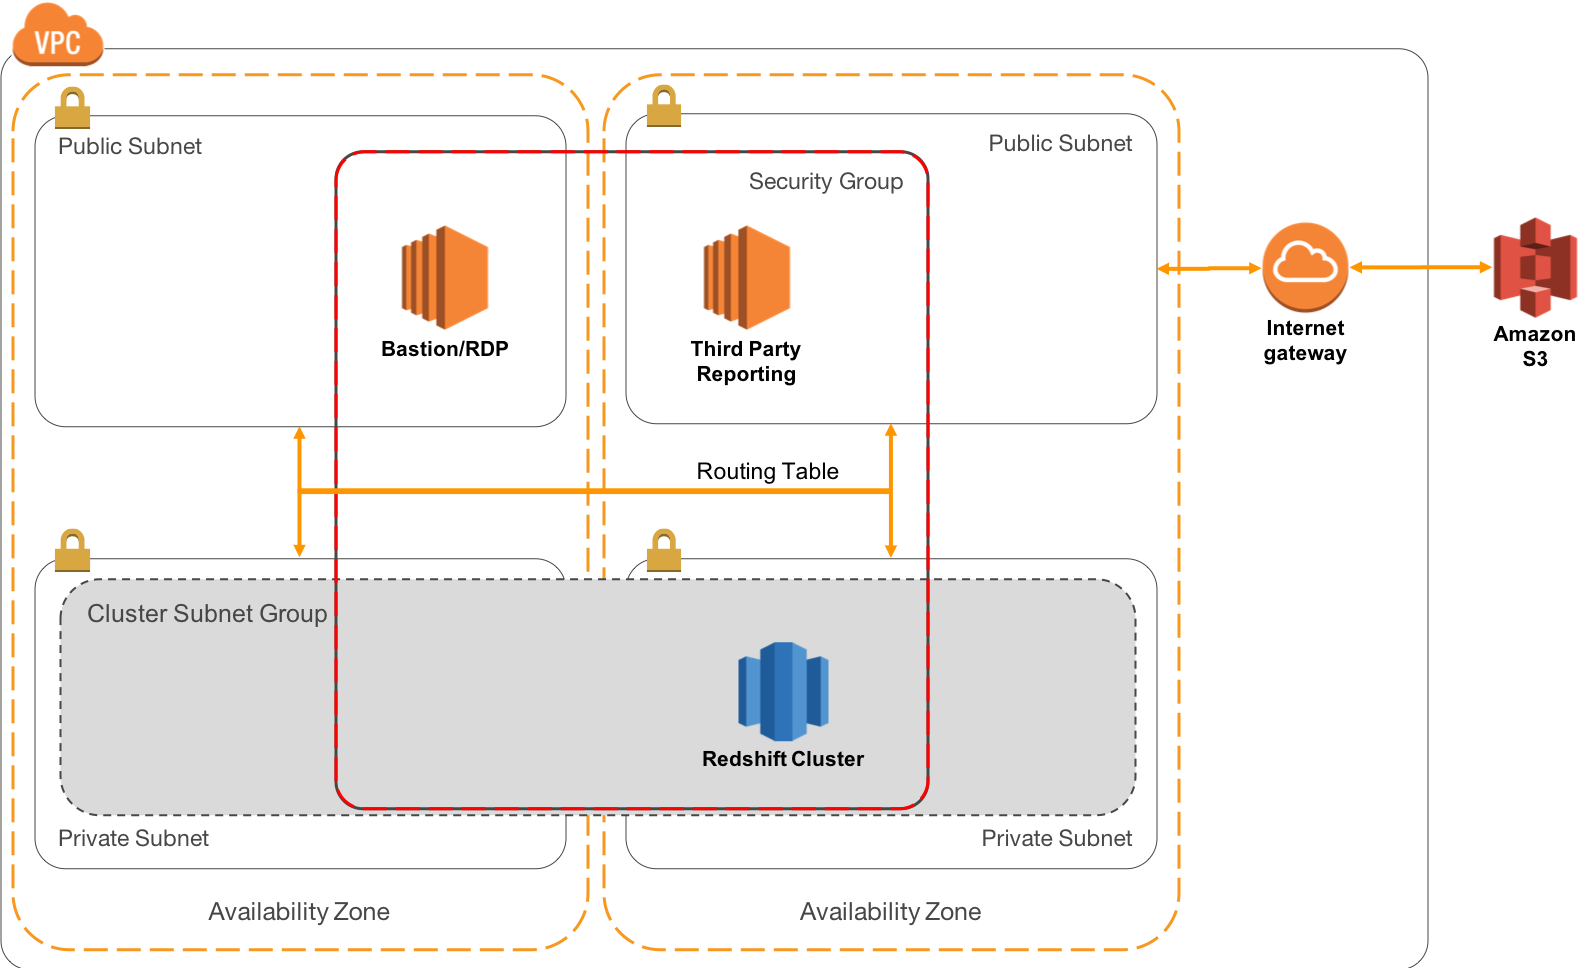
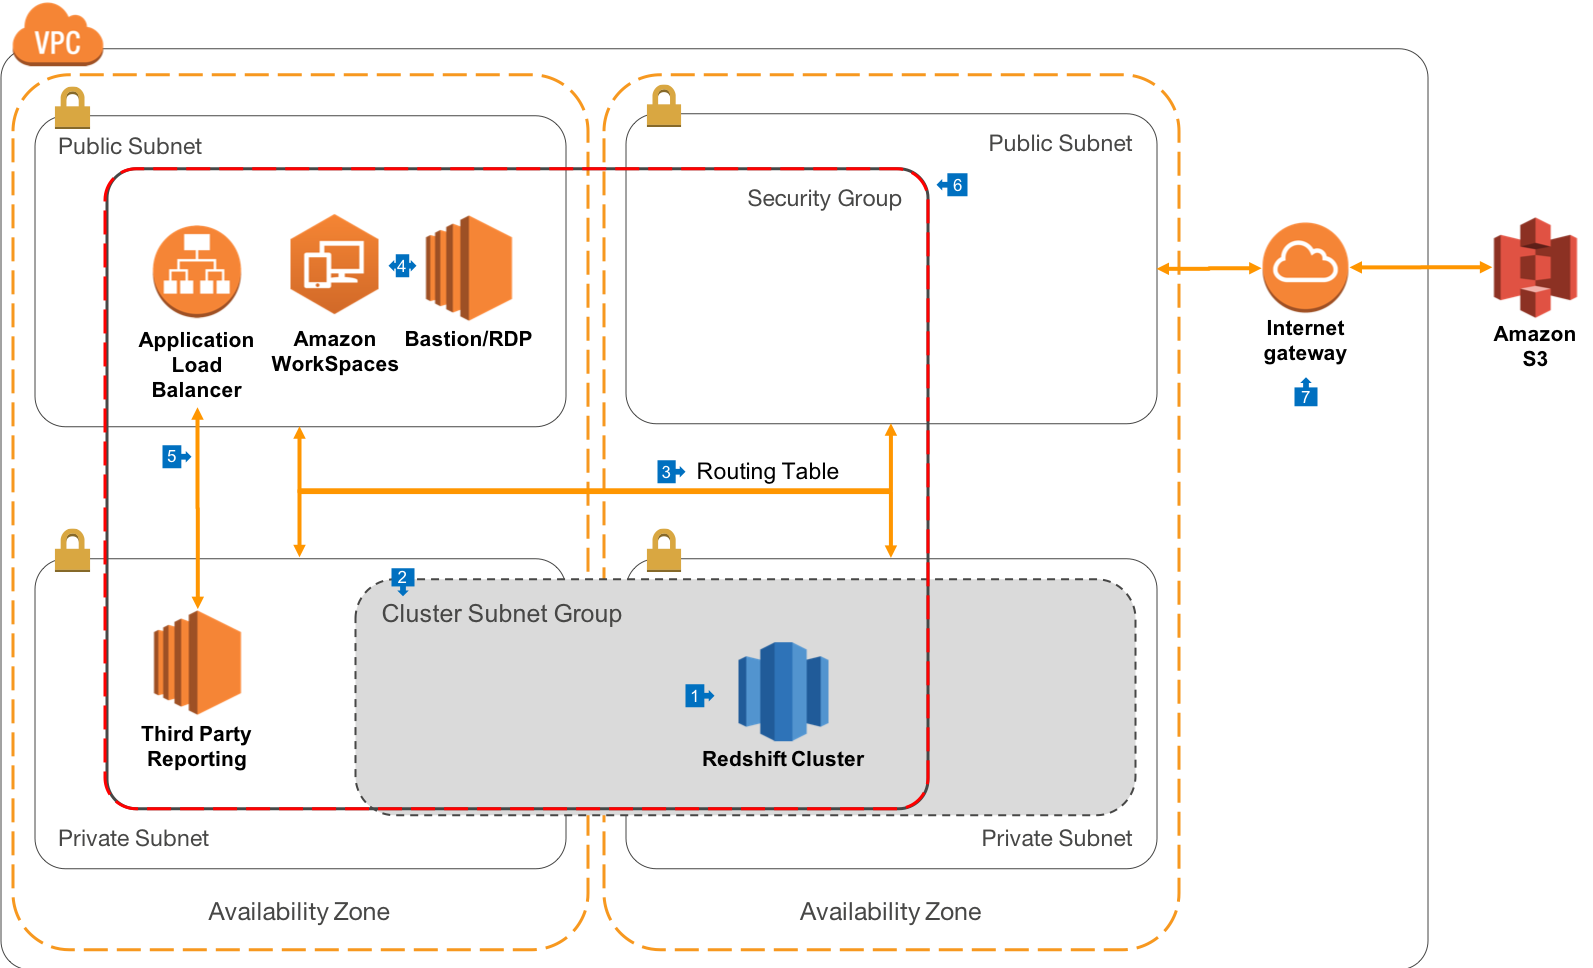
Updates to public routing doc

diff --git a/public-routing/README.md b/public-routing/README.md
@@ -1,3 +1,15 @@
 # Redshift cluster architecture to support connections from anywhere
 
+## Overview
+
 ![Public Connections](public-routing.png)
+
+## Walkthrough of the Architecture
+
+1. In this architecture, we deploy Redshift to [Amazon Virtual Private Cloud (VPC)](https://aws.amazon.com/vpc), as will be the case for all our other architectures. VPC supports public subnets, which are routable from an Internet Gateway, and private subnets which are not. We recommend that Redshift be run in private subnets, which gives you the maximum security and control over how connections are made to the Cluster.
+2. In order to create the cluster, we must configure a [Cluster Subnet Group](https://docs.aws.amazon.com/redshift/latest/mgmt/working-with-cluster-subnet-groups.html), which identifies the list of subnets where we want to run the cluster. It is a best practice _to create cluster Subnet Groups that span [Availability Zones (AZ)](https://docs.aws.amazon.com/AWSEC2/latest/UserGuide/using-regions-availability-zones.html)_. In the extremely unlikely case that an AZ goes offline, having your Cluster Subnet Group span AZ's will make it very easy to replace the cluster in another AZ with the same security architecture and routing rules.
+3. Your VPC will have both Private and Public Subnets, as in this architecture you will connect to resources in the VPC using Public IP addresses. In this architecture, you'll [create a VPC Routing Table](https://docs.aws.amazon.com/AmazonVPC/latest/UserGuide/VPC_Scenario2.html) that will allow connections to resources in Public Subnets from the Internet Gateway, but only allow connections to the Private Subnets from Public Subnets.
+4. Connections to your environment can be made by your end users using [Amazon Workspaces](https://aws.amazon.com/workspaces), a powerful Virtual Desktop Interface (VDI) in the Cloud. This gives you the ability to present all of your third party reporting tools via a managed applicaiton environment. You may also offer [Bastion Hosts](https://docs.aws.amazon.com/quickstart/latest/linux-bastion/architecture.html) or Remote Desktop based Instances using EC2 in order to administer your environment.
+5. Web connections made from your end users will terminate on an [Application Load Balancer](https://docs.aws.amazon.com/elasticloadbalancing/latest/application/introduction.html) which is presented in a Public Subnet. This allows your third-party reporting servers (such as Tableau or Looker) to be deployed into Private Subnets, and increases the control you have over where connections originate and how they are handled.
+6. Your Redshift Cluster, Reporting Server, Workspaces, Bastion/RDP Hosts and ALB can all share a [VPC Security Group](https://docs.aws.amazon.com/AmazonVPC/latest/UserGuide/VPC_SecurityGroups.html), which is a software filewall that allows connections only from members of the group, and on only the ports that you configure.
+7. When Redshift connects to Amazon S3, it will route out of your VPC via an Internet Gateway, where it will then hit the S3 endpoint for the specified region.

diff --git a/README.md b/README.md
@@ -38,7 +38,7 @@ This the most basic architecture that we recommend to be used with Amazon Redshi
 
 <table><tr><td><a href="https://github.com/aws-samples/aws-dbs-refarch-redshift/tree/master/private-routing"><img src="https://github.com/aws-samples/aws-dbs-refarch-redshift/blob/master/private-routing/thumbnail.png"/></a></td><td>
 
-This is perhaps the most common deployment architecture for Redshift clusters - deployed within private subnets in VPC that are only accessible over DirectConnect.
+This is perhaps the most common deployment architecture for Redshift clusters - deployed within private subnets in VPC that are only accessible over private, leased lines, through [DirectConnect](https://aws.amazon.com/directconnect).
 
 </td></tr></table>
 
